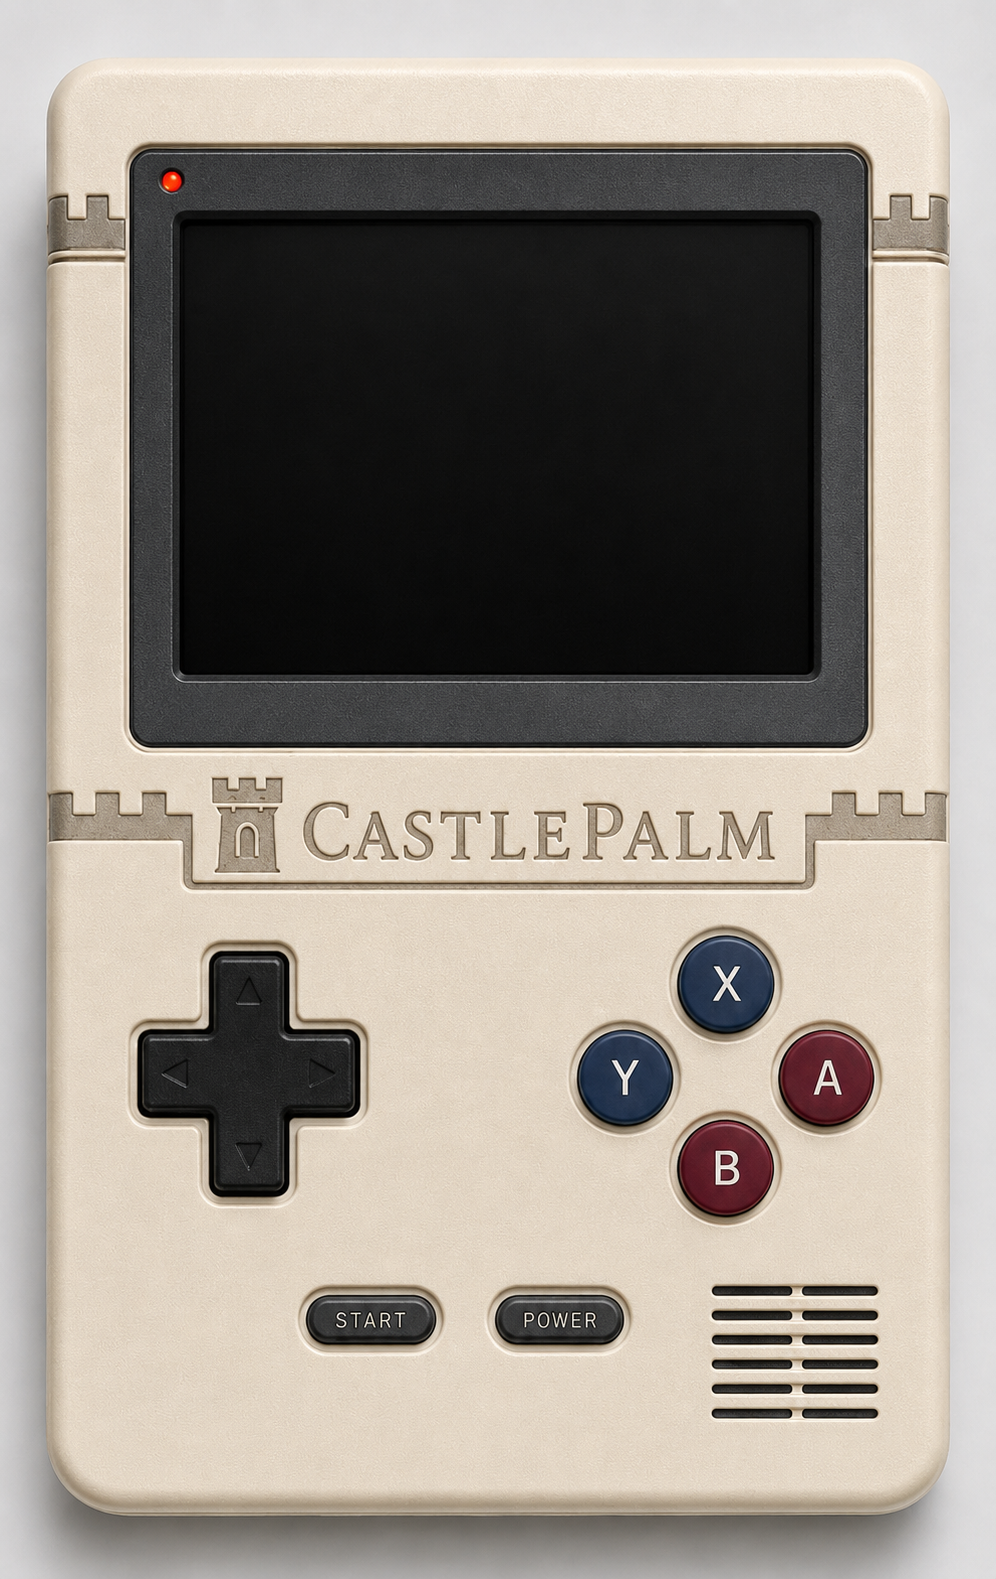
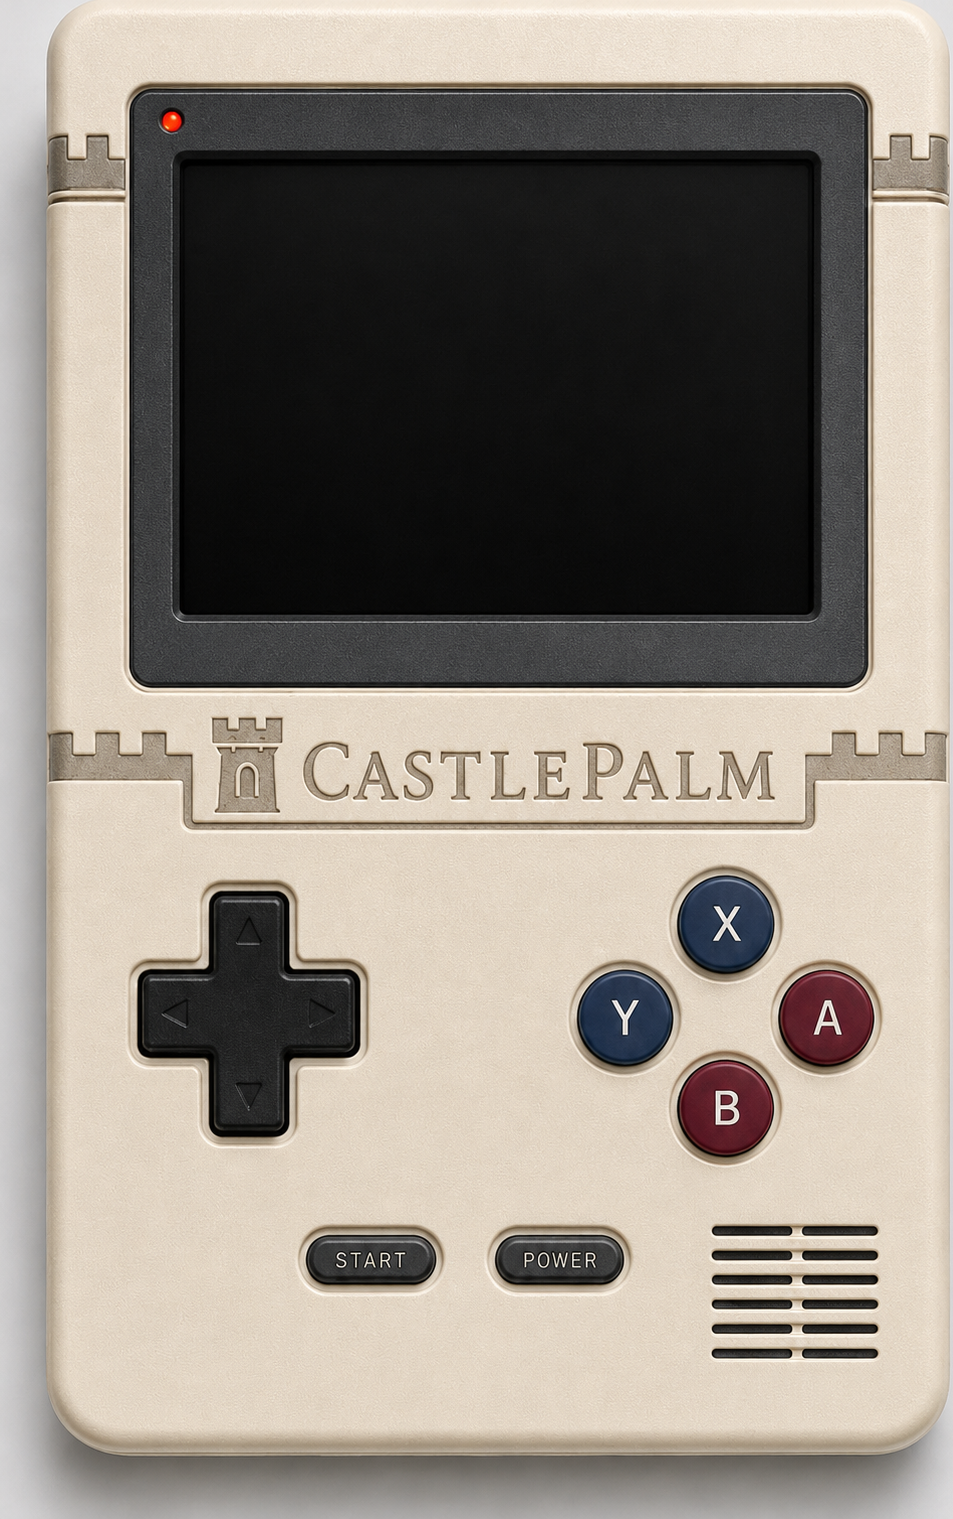
Mobile fixes: responsive sizing, cart dropdown, 60fps cap, no long-press menu, cropped casing

diff --git a/index.html b/index.html
@@ -1,73 +1,77 @@
 <!doctype html>
 <html lang="en-GB">
 <meta charset="utf-8">
-<meta name="viewport" content="width=device-width,initial-scale=1">
+<meta name="viewport" content="width=device-width,initial-scale=1,viewport-fit=cover,user-scalable=no">
 <title>CastlePalm</title>
 <style>
-html,body{height:100%;margin:0;background:#15161b;display:grid;place-items:center;user-select:none;-webkit-user-select:none}
-#d{position:relative;width:512px;height:812px;background:#e9e2d2 url(castle_palm.png) 0 0/100% 100% no-repeat;border-radius:24px}
-#s{position:absolute;left:72px;top:103px;width:368px;height:258px;background:#000;image-rendering:pixelated;touch-action:none}
-#l{position:absolute;left:81px;top:85px;width:14px;height:14px;border-radius:50%;background:#2a0506;opacity:.85}
+html,body{height:100%;margin:0;background:#15161b;display:flex;flex-direction:column;align-items:center;justify-content:center;gap:10px;
+  font:13px system-ui,sans-serif;color:#cdd2da;
+  user-select:none;-webkit-user-select:none;-webkit-touch-callout:none;-webkit-tap-highlight-color:transparent}
+/* cartridge selector — visible above the device on mobile (no hidden top bar) */
+#cartbar{display:flex;gap:8px;align-items:center;flex-wrap:wrap;justify-content:center;width:100%;max-width:512px;box-sizing:border-box;padding:0 8px}
+#cartsel{flex:1;min-width:120px;background:#2a2c34;color:#e8eaf0;border:1px solid #454852;border-radius:6px;padding:8px 10px;font:15px system-ui,sans-serif;cursor:pointer}
+#cartbar .load{background:#2a2c34;color:#e8eaf0;border:1px solid #454852;border-radius:6px;padding:8px 12px;cursor:pointer;white-space:nowrap}
+#cartbar .load input{display:none}
+#cartbar .tv{color:#9fd0ff;text-decoration:none;border:1px solid #3a4d6a;border-radius:6px;padding:8px 12px;white-space:nowrap}
+#now{flex-basis:100%;text-align:center;opacity:.6;min-height:0}
+#d{position:relative;width:512px;height:816px;background:url(castle_palm.png) 0 0/100% 100% no-repeat;border-radius:26px;
+  -webkit-touch-callout:none}
+#s{position:absolute;left:75px;top:75px;width:385px;height:268px;background:#000;image-rendering:pixelated;
+  touch-action:none;-webkit-touch-callout:none;-webkit-user-select:none;user-select:none}
+#l{position:absolute;left:85px;top:56px;width:15px;height:15px;border-radius:50%;background:#2a0506;opacity:.85}
 #l.on{background:#ff2e3b;box-shadow:0 0 4px 1px #e60021}
 b{position:absolute;touch-action:none;display:block}
 body.debug b{outline:2px solid rgba(255,40,60,.9);background:rgba(255,40,60,.12)}
 body.debug #s{outline:2px solid rgba(40,140,255,.9)}
-#bar{position:fixed;top:6px;left:0;right:0;display:flex;flex-wrap:wrap;gap:8px;justify-content:center;align-items:center;color:#cdd2da;font:13px system-ui,sans-serif}
-#bar .lbl{opacity:.7}
-#bar button,#bar .load{background:#2a2c34;color:#e8eaf0;border:1px solid #454852;border-radius:6px;padding:4px 11px;cursor:pointer;font:inherit}
-#bar button.active{background:#ff2e3b;border-color:#ff2e3b;color:#fff;font-weight:700}
-#bar button:hover,#bar .load:hover{border-color:#7a808c}
-#bar input{display:none}
 </style>
 
-<div id="bar">
-  <span class="lbl">Cartridge:</span>
-  <button class="cart" data-cart="pong">Pong</button>
-  <button class="cart" data-cart="snake">Snake</button>
-  <button class="cart" data-cart="palmblast">PALMBLAST</button>
-  <label class="load" title="Load a CastlePalm cartridge file (.cpc)">Load cartridge… <input type="file" id="file" accept=".cpc,.cplm,application/octet-stream"></label>
-  <span id="now" class="lbl"></span>
-  <a href="console.html" title="CastleStation — the TV-console version of this machine: a big screen with two-player controls (keyboard split + gamepads). Same cartridges." style="margin-left:8px;color:#9fd0ff;text-decoration:none;border:1px solid #3a4d6a;border-radius:6px;padding:4px 11px;font:13px system-ui,sans-serif">📺 CastleStation (TV · 2-player) →</a>
+<div id="cartbar">
+  <select id="cartsel">
+    <option value="pong">Pong</option>
+    <option value="snake">Snake</option>
+    <option value="palmblast">PALMBLAST</option>
+  </select>
+  <label class="load" title="Load a .cpc cartridge from disk">Load… <input type="file" id="file" accept=".cpc,.cplm,application/octet-stream"></label>
+  <a class="tv" href="console.html" title="CastleStation — the TV-console version: big screen, 2-player. Same cartridges.">📺 TV</a>
+  <span id="now"></span>
 </div>
+
 <div id="d">
   <canvas id="s" width="320" height="224" draggable="false"></canvas>
   <i id="l"></i>
 
   <!-- D-pad: Up=1 Down=2 Left=4 Right=8 -->
-  <b data-b="1"   style="left:106px;top:492px;width:44px;height:46px"></b>
-  <b data-b="2"   style="left:106px;top:566px;width:44px;height:46px"></b>
-  <b data-b="4"   style="left:68px;top:530px;width:44px;height:44px"></b>
-  <b data-b="8"   style="left:144px;top:530px;width:46px;height:44px"></b>
+  <b data-b="1"   style="left:111px;top:479px;width:46px;height:48px"></b>
+  <b data-b="2"   style="left:111px;top:556px;width:46px;height:48px"></b>
+  <b data-b="4"   style="left:71px;top:519px;width:46px;height:46px"></b>
+  <b data-b="8"   style="left:150px;top:519px;width:48px;height:46px"></b>
 
   <!-- Face buttons (SNES diamond): X top, Y left, A right, B bottom -->
-  <b data-b="64"  style="left:344px;top:453px;width:56px;height:56px;border-radius:50%"></b><!-- X -->
-  <b data-b="128" style="left:286px;top:513px;width:56px;height:56px;border-radius:50%"></b><!-- Y -->
-  <b data-b="16"  style="left:402px;top:513px;width:56px;height:56px;border-radius:50%"></b><!-- A -->
-  <b data-b="32"  style="left:344px;top:573px;width:56px;height:56px;border-radius:50%"></b><!-- B -->
+  <b data-b="64"  style="left:360px;top:439px;width:59px;height:58px;border-radius:50%"></b><!-- X -->
+  <b data-b="128" style="left:299px;top:501px;width:59px;height:58px;border-radius:50%"></b><!-- Y -->
+  <b data-b="16"  style="left:420px;top:501px;width:59px;height:58px;border-radius:50%"></b><!-- A -->
+  <b data-b="32"  style="left:360px;top:564px;width:59px;height:58px;border-radius:50%"></b><!-- B -->
 
   <!-- START=256  POWER=512 -->
-  <b data-b="256" style="left:168px;top:666px;width:64px;height:28px;border-radius:14px"></b>
-  <b data-b="512" style="left:268px;top:666px;width:64px;height:28px;border-radius:14px"></b>
+  <b data-b="256" style="left:176px;top:660px;width:67px;height:29px;border-radius:15px"></b>
+  <b data-b="512" style="left:280px;top:660px;width:67px;height:29px;border-radius:15px"></b>
 </div>
 
-<script src="dist/castlepalm.js?v=11"></script>
+<script src="dist/castlepalm.js?v=13"></script>
 <script>
 'use strict'
-// CastlePalm shell — boots a CPLM cartridge (Pong by default) on the real
-// CPU + PPU + input bus (dist/castlepalm.js). Drop a .cpc on the screen to load
-// another cart. Press ` for #debug hotspot outlines.
-
+// CastlePalm handheld shell. Boots a CPLM cartridge on the real CPU+PPU+input bus.
 const W = 320, H = 224
 const screen = document.getElementById('s')
 const ctx = screen.getContext('2d', { alpha: false })
 const image = ctx.createImageData(W, H)
 const out = new Uint32Array(image.data.buffer)
 const led = document.getElementById('l')
+const cartsel = document.getElementById('cartsel'), now = document.getElementById('now')
 
 let sys = null, cartBytes = null, input = 0, power = 1
 
-// Web Audio playback (host-side; the core stays deterministic). Browsers require a
-// user gesture before audio, so the context is created/resumed on first input.
+// Web Audio (host-side; core stays deterministic). Needs a user gesture to start.
 let actx = null, playTime = 0
 function unlockAudio() {
   if (!actx) { const AC = window.AudioContext || window.webkitAudioContext; if (!AC) return; actx = new AC(); playTime = actx.currentTime }
@@ -75,8 +79,7 @@ function unlockAudio() {
 }
 function playAudio(samples, rate) {
   if (!actx || actx.state !== 'running') return
-  const buf = actx.createBuffer(1, samples.length, rate)
-  buf.copyToChannel(samples, 0)
+  const buf = actx.createBuffer(1, samples.length, rate); buf.copyToChannel(samples, 0)
   const src = actx.createBufferSource(); src.buffer = buf; src.connect(actx.destination)
   if (playTime < actx.currentTime) playTime = actx.currentTime
   src.start(playTime); playTime += buf.duration
@@ -84,25 +87,21 @@ function playAudio(samples, rate) {
 
 function blank() { ctx.fillStyle = '#000'; ctx.fillRect(0, 0, W, H) }
 function boot(bytes) { cartBytes = bytes; sys = new CastlePalm.System(bytes); power = 1; led.className = 'on' }
-
-// cartridge loader: embedded carts (buttons / keys 1-2) + load any .cpc from disk
-const bar = document.getElementById('bar'), now = document.getElementById('now')
-function setActive(name) { for (const b of bar.querySelectorAll('button.cart')) b.classList.toggle('active', b.dataset.cart === name) }
 function pick(name) {
   if (!(window.CastlePalm && CastlePalm.carts && CastlePalm.carts[name])) return
-  boot(CastlePalm.carts[name]); setActive(name); now.textContent = ''
+  boot(CastlePalm.carts[name]); cartsel.value = name; now.textContent = ''
 }
-for (const b of bar.querySelectorAll('button.cart')) b.onclick = () => pick(b.dataset.cart)
+cartsel.onchange = () => pick(cartsel.value)
 document.getElementById('file').onchange = e => {
   const f = e.target.files[0]; if (!f) return
   const r = new FileReader()
-  r.onload = () => { try { boot(new Uint8Array(r.result)); setActive(null); now.textContent = '▸ ' + f.name } catch (err) { now.textContent = 'load failed: ' + err.message } }
+  r.onload = () => { try { boot(new Uint8Array(r.result)); now.textContent = '▸ ' + f.name } catch (err) { now.textContent = 'load failed: ' + err.message } }
   r.readAsArrayBuffer(f)
 }
 
-// boot an embedded cartridge (no fetch -> runs from file://). #snake selects Snake.
-if (window.CastlePalm && CastlePalm.carts) pick(location.hash === '#snake' ? 'snake' : 'pong')
-else { blank(); led.className = ''; now.textContent = 'bundle not loaded — run "npm run bundle", then hard-refresh (Ctrl/Cmd+Shift+R)' }
+// boot embedded cart (no fetch -> runs from file://). #snake / #palmblast select.
+if (window.CastlePalm && CastlePalm.carts) { const h = location.hash.replace('#', ''); pick(CastlePalm.carts[h] ? h : 'pong') }
+else { blank(); led.className = ''; now.textContent = 'bundle not loaded — run "npm run bundle", then hard-refresh' }
 
 // 16-bit input word matches the MMIO INPUT layout (MMIO_V0.md)
 const BTN = { POWER: 512 }
@@ -130,6 +129,10 @@ for (const el of document.querySelectorAll('b')) {
 }
 if (location.hash === '#debug') document.body.classList.add('debug')
 
+// kill the mobile long-press "save image" / context menu (it interrupted gameplay)
+document.addEventListener('contextmenu', e => e.preventDefault())
+screen.ondragstart = screen.onselectstart = e => e.preventDefault()
+
 // drag-and-drop a .cpc cartridge
 screen.ondragover = e => e.preventDefault()
 screen.ondrop = e => {
@@ -139,17 +142,30 @@ screen.ondrop = e => {
   f.readAsArrayBuffer(e.dataTransfer.files[0])
 }
 
-function frame() {
+// fixed 60 Hz step — games assume 60fps, so don't run faster on 120Hz+ displays
+let acc = 0, last
+function frame(t) {
   requestAnimationFrame(frame)
   if (!power || !sys) return
-  sys.setInput(input)
-  out.set(sys.runFrame())
-  ctx.putImageData(image, 0, 0)
-  if (sys.audio) playAudio(sys.audio, sys.audioRate)
+  if (last === undefined) last = t
+  acc += t - last; last = t
+  if (acc > 250) acc = 250                 // clamp after a stall / backgrounding
+  let drew = false
+  while (acc >= 16.6667) {
+    acc -= 16.6667
+    sys.setInput(input)
+    out.set(sys.runFrame()); drew = true
+    if (sys.audio) playAudio(sys.audio, sys.audioRate)
+  }
+  if (drew) ctx.putImageData(image, 0, 0)
 }
-blank(); frame()
+blank(); requestAnimationFrame(frame)
 
-const fit = () => { document.getElementById('d').style.zoom = Math.min(1, innerWidth / 512, innerHeight / 812) }
+// scale the device to fit, leaving room for the cartridge bar
+const fit = () => {
+  const barH = document.getElementById('cartbar').offsetHeight + 20
+  document.getElementById('d').style.zoom = Math.min(1, innerWidth / 512, (innerHeight - barH) / 816)
+}
 addEventListener('resize', fit); fit()
 </script>
 </html>

diff --git a/console.html b/console.html
@@ -52,7 +52,7 @@
   <span>· gamepads auto-map to P1/P2</span>
 </div>
 
-<script src="dist/castlepalm.js?v=5"></script>
+<script src="dist/castlepalm.js?v=6"></script>
 <script>
 'use strict'
 // CastleStation — the stationary TV-console shell for CastlePalm cartridges.
@@ -132,15 +132,25 @@ function padWord(i) {
   return w
 }
 
-function frame() {
+// fixed 60 Hz step — games assume 60fps, so don't run faster on 120Hz+ displays
+let acc = 0, last
+function frame(t) {
   requestAnimationFrame(frame)
   if (!power || !sys) return
-  sys.setInputs(0, key[0] | padWord(0))
-  sys.setInputs(1, key[1] | padWord(1))
-  out.set(sys.runFrame())
-  ctx.putImageData(image, 0, 0)
-  if (sys.audio) playAudio(sys.audio, sys.audioRate)
+  if (last === undefined) last = t
+  acc += t - last; last = t
+  if (acc > 250) acc = 250
+  let drew = false
+  while (acc >= 16.6667) {
+    acc -= 16.6667
+    sys.setInputs(0, key[0] | padWord(0))
+    sys.setInputs(1, key[1] | padWord(1))
+    out.set(sys.runFrame()); drew = true
+    if (sys.audio) playAudio(sys.audio, sys.audioRate)
+  }
+  if (drew) ctx.putImageData(image, 0, 0)
 }
-blank(); frame()
+document.addEventListener('contextmenu', e => e.preventDefault())
+blank(); requestAnimationFrame(frame)
 </script>
 </html>